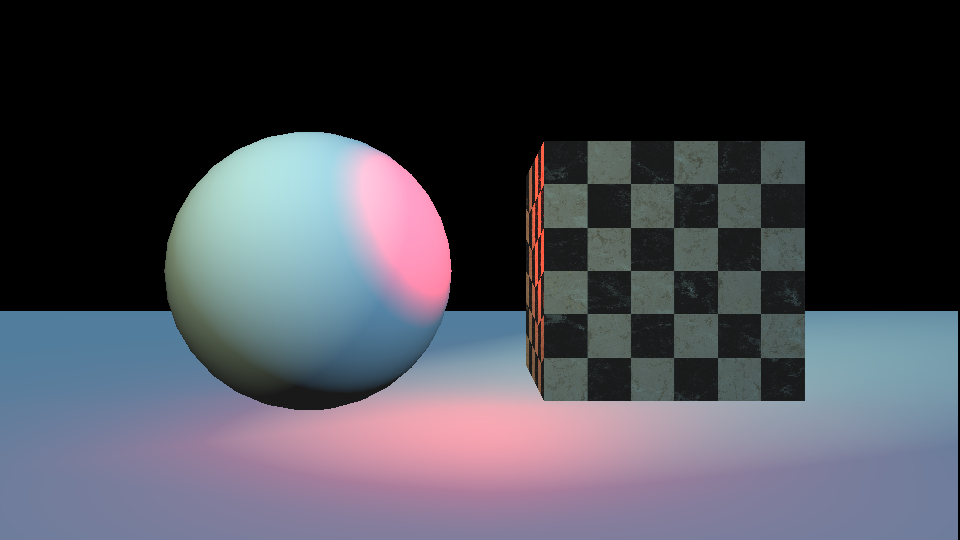
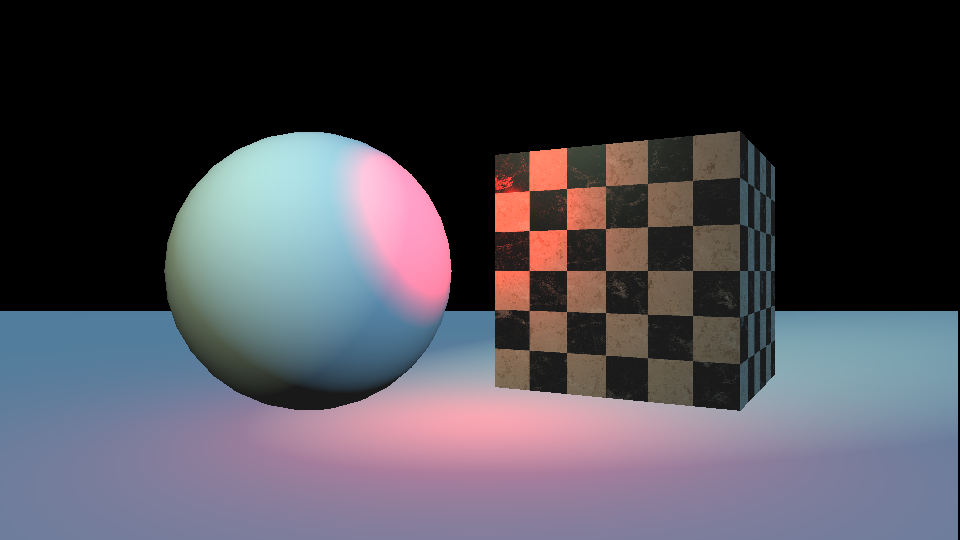
added perspective correction

Changed region(s): [[0.5, 0.237, 0.8438, 0.7704], [0.4062, 0.8296, 0.5938, 0.9185]]

diff --git a/library/light.cpp b/library/light.cpp
@@ -231,22 +231,22 @@ void draw_barycentric(Image &image, DepthBuffer &depth, Color &color, const Vert
 void draw_barycentric(Image &image, DepthBuffer &depth, Material &material, LightCollection &lights, const Vertex &v0, const Vertex &v1, const Vertex &v2)
 {
     float z0 = 1.0f / v0.screen.z, z1 = 1.0f / v1.screen.z, z2 = 1.0f / v2.screen.z;
-    //float w0 = 1.0f / v0.clip.w, w1 = 1.0f / v1.clip.w, w2 = 1.0f / v2.clip.w;
+    float w0 = v0.clip.w, w1 = v1.clip.w, w2 = v2.clip.w;
 
     auto draw = [&](uint32_t u, uint32_t v, float a, float b, float c)
     {
-        float az = a * z0, bz = b * z1, cz = c * z2;
-        float z = 1 / (az + bz + cz);
-
+        float z = 1 / (a * z0 + b * z1 + c * z2);
         // Check if this pixel is closer to the screen
         if (z <= depth.at(u, v))
         {
             depth.at(u, v) = z;
 
+            float aw = a * w0, bw = b * w1, cw = c * w2;
+            float w = 1 / (aw + bw + cw);
             // Interpolate across all of the vertex values
-            Vec4 world = (v0.world * az + v1.world * bz + v2.world * cz) * z;
-            Vec3 texture = (v0.texture * az + v1.texture * bz + v2.texture * cz) * z;
-            Vec4 normal = normalize(v0.normal * az + v1.normal * bz + v2.normal * cz);
+            Vec4 world = (v0.world * aw + v1.world * bw + v2.world * cw) * w;
+            Vec3 texture = (v0.texture * aw + v1.texture * bw + v2.texture * cw) * w;
+            Vec4 normal = normalize(v0.normal * aw + v1.normal * bw + v2.normal * cw);
 
             // Set the color using the material and light
             Color color = material.get_color(world, normal, texture, lights);

diff --git a/main.cpp b/main.cpp
@@ -62,7 +62,7 @@ int main()
 
 	// Set objects
 	std::vector<Object> objects;
-	objects.push_back({{1.2, 0, -5}, {}, {0.8}, cube, tile});
+	objects.push_back({{1.2, 0, -5}, {{0, 1, 0}, Pi/3}, {0.8}, cube, tile});
 	objects.push_back({{-1.2, 0, -5}, {}, {1}, sphere, material});
 	objects.push_back({{0, -1, -5}, {}, {12}, plane, material});
 
@@ -110,9 +110,15 @@ int main()
 			{
 				Vertex &vertex = vertices[j];
 				Vec4 &clip = vertex.clip;
-				if (clip.w != 0)
-					clip /= clip.w;
+
+				float temp = clip.w;
+				if (temp != 0) {
+					temp = 1.0f / temp;
+					clip *= temp;
+				}
+
 				vertex.screen = m_screen * clip;
+				clip.w = temp;
 			}
 
 			// Reform triangles using fan triangulation
